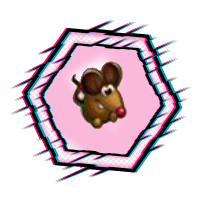
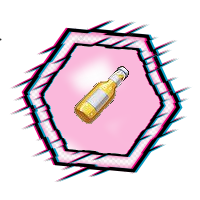
misc

Changed region(s): [[0.36, 0.3, 0.66, 0.66], [0.0, 0.18, 0.03, 0.21]]

diff --git a/src/js/folie11_script.js b/src/js/folie11_script.js
@@ -489,6 +489,50 @@
 checkInventory();
 
 
+// pop up
+
+let bottle_timeout = false;
+let bottle_done = localStorage.getItem('bottle_status');
+var popup = document.getElementById("popup_vendor");
+
+function bottle_interface() {
+    if ((place_counter_x === 9) && (place_counter_y === 8))  {
+        if (bottle_timeout === false) {
+            r.style.setProperty('--maus', 1);
+            localStorage.setItem('mouse', 1);
+            inventory_mouse = localStorage.getItem('mouse');
+            bottle_done = true;
+            show_bubble10();
+            checkInventory();
+        }
+    }
+}
+   
+async function resetVendor()
+{
+    await delay(500);
+    popup.classList.toggle("fadeIn");
+    popup.classList.toggle("fadeOut");
+    console.log("reset");
+}
+function cancelVendor()
+{
+console.log("popup ausschalten");
+popup.classList.toggle("fadeOut");
+bottle_timeout = false;
+resetVendor();
+click_arrow.removeEventListener("click", cancelVendor);
+
+}
+
+// show info
+
+async function show_bubble10()
+{
+    r.style.setProperty('--opacity_sprechblase20', 1);
+    await delay(2000);
+    r.style.setProperty('--opacity_sprechblase20', 0);
+}
 
     // set counters for Arrow Keys
     let counter_arrow_up = 0;
@@ -520,18 +564,11 @@ checkInventory();
     // move out of the cave
 
     function move_out_of_cave() {
-        if ((place_counter_x === 5) && (place_counter_y === 10)) {
-            console.log("raus aus der Höhle");
+        if ((place_counter_x === 3) && (place_counter_y === 4)) {
+            console.log("raus auf dem 1.OG");
             window.location.href = "kreischcraft2.html";
-            localStorage.setItem('player_origin', 13);
         }
     }
-
-    //  vendor interface
-
-
-    // pop up
-
 
 
    // place character depending on zone entry
@@ -700,6 +737,7 @@ checkInventory();
         }
         else if ((e.keyCode == '39') && (can_char_move === true)) { // right arrow
             prevent_move();
+            bottle_interface();
             document.getElementById('player_img').src = "src/images/cat_right_standing_black.png";
             if ((place_counter_x >= 1) && (place_counter_x < number_of_squares)) {
                 for (var i = 0; i < banned_squares_right.length; i++) {

diff --git a/src/css/kreisch_folie11.css b/src/css/kreisch_folie11.css
@@ -7,11 +7,7 @@
   --cat_patrol_y:10px;
 
 
-  --opacity_sprechblase6:1;
-  --opacity_sprechblase7:0;
-  --opacity_sprechblase8:0;
-  --opacity_sprechblase9:0;
-  --opacity_sprechblase10:0;
+  --opacity_sprechblase20:0;
 
   --geld:0;
   --fisch:0;
@@ -181,23 +177,13 @@ top:var(--move_y);
 	border-radius: 15px;
   }
 
-.sprechblase
+  .bottlePic
   {
-	position: absolute;
-	left:300px;
-	top:220px;
-	height: 100px;
-	width: auto;
+	height: 620px;
+	width: 620px;
+	border-radius: 15px;
   }
 
-  .sprechblase_dragon
-  {
-	position: absolute;
-	left:330px;
-	top:100px;
-	height: 100px;
-	width: auto;
-  }
   .sprechblase_new_item
   {
 	position: absolute;
@@ -206,62 +192,12 @@ top:var(--move_y);
 	height: 150px;
 	width: auto;
   }
-.visibility_sprechblase6
+
+.visibility_sprechblase20
 {
-	opacity: var(--opacity_sprechblase6);
-}
-.visibility_sprechblase7
-{
-	opacity: var(--opacity_sprechblase7);
-}
-.visibility_sprechblase8
-{
-	opacity: var(--opacity_sprechblase7);
-}
-.visibility_sprechblase9
-{
-	opacity: var(--opacity_sprechblase7);
-}
-.visibility_sprechblase10
-{
-	opacity: var(--opacity_sprechblase10);
+	opacity: var(--opacity_sprechblase20);
 }
 
-  .backArrow
-  {
-	position: absolute;
-	height: 70px;
-	width: 150px;
-	left: 420px;
-	top: 550px;
-  }
-
-  .buyFish
-  {
-	  position: absolute;
-	  left: 170px;
-	  top:420px;
-	  padding: 10px 20px;
-	  text-align: center;
-	  text-decoration: none;
-	  display: inline-block;
-	  border-radius: 15px;
-	  border: none;
-	  background: rgba(161, 229, 134, 0.575);
-  }
-  .buyCarrot
-  {
-	  position: absolute;
-	  left: 340px;
-	  top:420px;
-	  padding: 10px 20px;
-	  text-align: center;
-	  text-decoration: none;
-	  display: inline-block;
-	  border-radius: 15px;
-	  border: none;
-	  background: rgba(161, 229, 134, 0.575);
-  }
 
 /* sleeping cat popups */
 .popup_cat {

diff --git a/src/js/folie10_script.js b/src/js/folie10_script.js
@@ -400,58 +400,7 @@ function cancelVendor()
 
 }
 
-    // buy items
-
-    async function buyFish()
-{
-    r.style.setProperty('--opacity_sprechblase6', 0);    
-    r.style.setProperty('--opacity_sprechblase7', 1);
-    r.style.setProperty('--fisch', 1);
-    localStorage.setItem('fish', 1);
-
-    localStorage.setItem('vendor_status', 1);
-    localStorage.setItem('grayscale_coin', 1);
-    r.style.setProperty('--grayscale_coin', 1);
-    localStorage.setItem('coin', 2);
-    vendor_done = localStorage.getItem('vendor_status');
-    checkInventory();
-    await delay(750);
-    show_bubble8();
-    cancelVendor();
-}
-
-async function buyCarrot()
-{
-    r.style.setProperty('--opacity_sprechblase6', 0);    
-    r.style.setProperty('--opacity_sprechblase7', 1);
-    r.style.setProperty('--karotte', 1);
-    localStorage.setItem('carrot', 1);
-
-    localStorage.setItem('vendor_status', 1);
-    localStorage.setItem('grayscale_coin', 1);
-    r.style.setProperty('--grayscale_coin', 1);
-    localStorage.setItem('coin', 2);
-    vendor_done = localStorage.getItem('vendor_status');
-    checkInventory();
-    await delay(750);
-    show_bubble9();
-    cancelVendor();
-}
-    // show info for fish
-
-    async function show_bubble8()
-    {
-        r.style.setProperty('--opacity_sprechblase8', 1);
-        await delay(2000);
-        r.style.setProperty('--opacity_sprechblase8', 0);
-    }
-
-    async function show_bubble9()
-    {
-        r.style.setProperty('--opacity_sprechblase9', 1);
-        await delay(2000);
-        r.style.setProperty('--opacity_sprechblase9', 0);
-    }
+    // show info
 
     async function show_bubble10()
     {

diff --git a/kreischcraft11.html b/kreischcraft11.html
@@ -22,6 +22,13 @@
                 <img src="src/images/maus.png" class="maus">
                 <img src="src/images/Notiz.png" class="notiz">
                 <img src="src/images/Ticket.png" class="ticket">
+                <img src="src/images/sprechblase1.png" class="sprechblase_new_item visibility_sprechblase20">
+
+                <span class="popup_cat">
+                    <span class="popuptext" id="popup_vendor">
+                        <img src="src/images/folie14.png" class="bottlePic">
+                        <img src="src/images/PfeilZurück.png" class="backArrow" id="backArrow">
+                    </span>
 
             </div>
             <div class="two_row">
